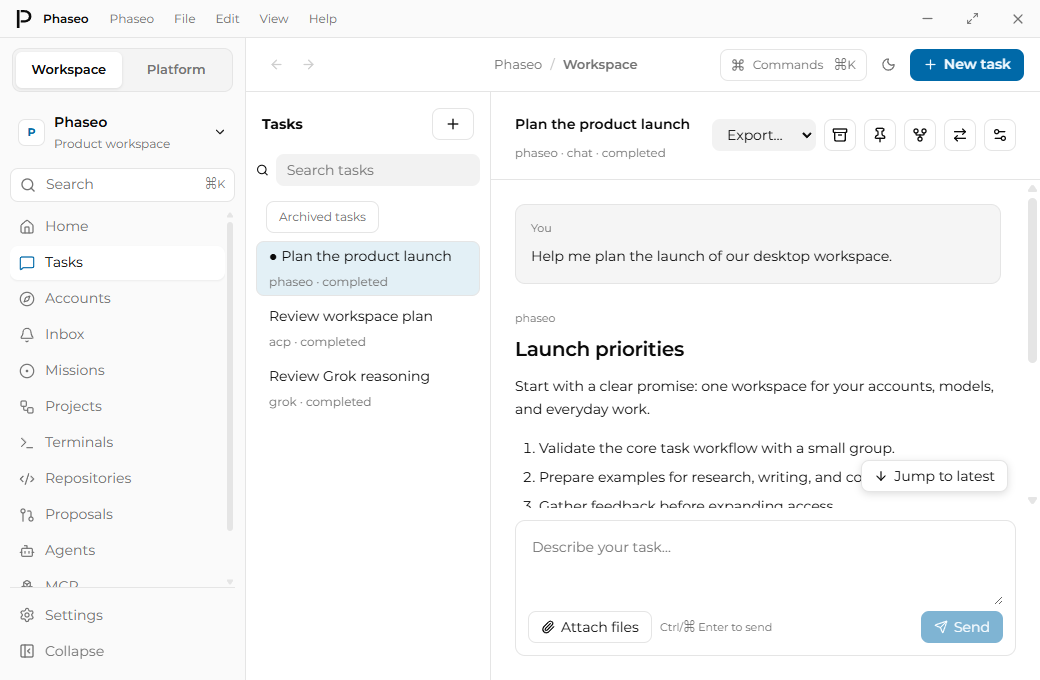
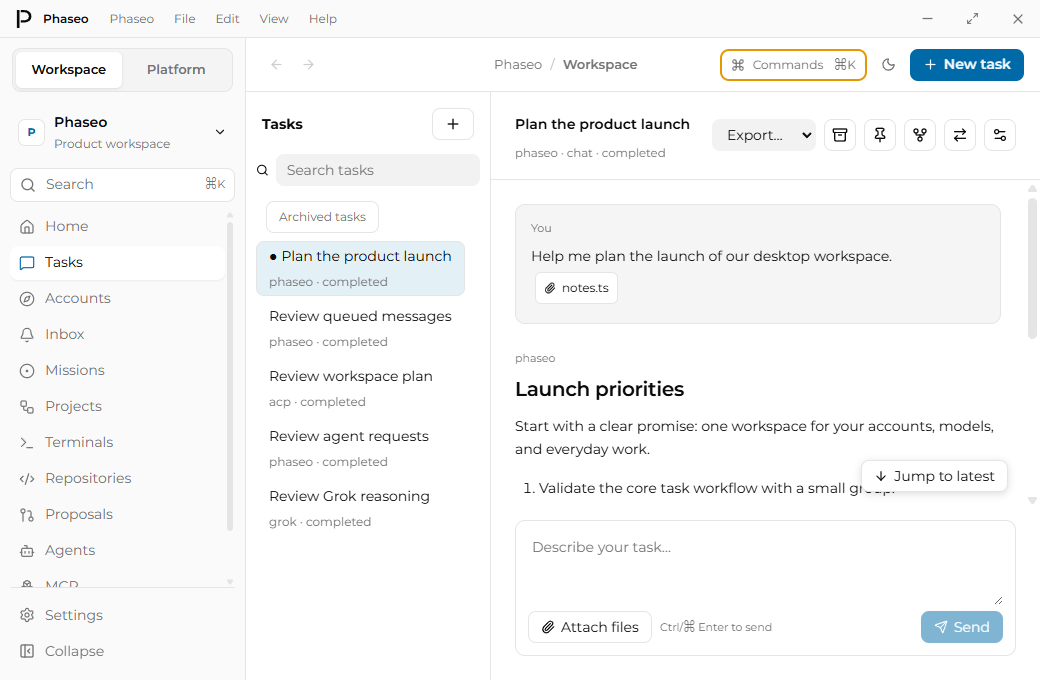
fix(desktop): retain task history navigation controls

diff --git a/apps/desktop/src/renderer/views/TaskWorkspace.tsx b/apps/desktop/src/renderer/views/TaskWorkspace.tsx
@@ -102,11 +102,11 @@ export function TaskWorkspace() {
 			<div className="task-list-heading"><strong>Tasks</strong><button type="button" aria-label="New task" onClick={() => { setSelectedId(undefined); setHandoffId(undefined); }}><Plus size={16} /></button></div>
 			<label className="task-search"><Search size={14} /><input aria-label="Search tasks" placeholder="Search tasks" maxLength={512} value={query} onChange={event => setQuery(event.target.value)} /></label>
 			<button type="button" className="task-archive-filter" onClick={() => { setShowArchived(value => !value); setSelectedId(undefined); }}>{showArchived ? "Active tasks" : "Archived tasks"}</button>
-			{tasks.map(task => <button type="button" className={`task-row ${task.id === selectedId ? "selected" : ""}`} key={task.id} onClick={() => setSelectedId(task.id)}><span>{task.pinned ? "● " : ""}{task.title}</span><small>{task.harness} · {task.status}</small></button>)}
+			<div className="task-history-list">{tasks.map(task => <button type="button" title={task.title} aria-pressed={task.id === selectedId} className={`task-row ${task.id === selectedId ? "selected" : ""}`} key={task.id} onClick={() => setSelectedId(task.id)}><span>{task.pinned ? "● " : ""}{task.title}</span><small>{task.harness} · {task.status}</small></button>)}
 			{history.loading && <p className="task-muted" role="status">Loading tasks…</p>}
 			{history.error && <div className="task-muted" role="alert"><p>{history.error}</p><button type="button" onClick={history.retry}>Retry</button></div>}
 			{!history.loading && !history.error && !tasks.length && <p className="task-muted">{query ? "No matching tasks." : showArchived ? "No archived tasks." : "Your tasks will appear here."}</p>}
-			{history.hasMore && <button type="button" disabled={history.loading} onClick={history.loadMore}>Load more tasks</button>}
+			{history.hasMore && <button type="button" disabled={history.loading} onClick={history.loadMore}>Load more tasks</button>}</div>
 		</aside>
 		<section className="task-detail" aria-label="Task workspace">
 			{error && <div className="task-error" role="alert">{error}</div>}

diff --git a/apps/desktop/src/renderer/styles.css b/apps/desktop/src/renderer/styles.css
@@ -57,7 +57,12 @@
 :where(.page, .task-workspace, .terminal-workspace) :where(input:not([type="checkbox"]):not([type="radio"]), select, textarea) { min-width: 0; min-height: 32px; border: 1px solid transparent; background: color-mix(in oklch, var(--input) 50%, transparent); color: var(--text); border-radius: 8px; padding: 4px 10px; font: inherit; font-size: 14px; transition: border-color 200ms, box-shadow 200ms; }
 :where(.page, .task-workspace, .terminal-workspace) :is(input[type="checkbox"], input[type="radio"]) { width: 16px; height: 16px; margin: 0; accent-color: var(--primary); }
 :where(.page, .task-workspace, .terminal-workspace) :focus-visible { outline: none; border-color: var(--ring); box-shadow: 0 0 0 3px color-mix(in oklch, var(--ring) 30%, transparent); }
-.task-list { width: 245px; flex-shrink: 0; border-right: 1px solid var(--border); padding: 16px 10px; overflow: auto; }
+.task-list { display: flex; flex-direction: column; min-height: 0; width: 245px; flex-shrink: 0; border-right: 1px solid var(--border); padding: 16px 10px; overflow: hidden; }
+.task-list > :not(.task-history-list) { flex-shrink: 0; }
+.task-list > .task-archive-filter { align-self: flex-start; }
+.task-history-list { flex: 1; min-height: 0; overflow-y: auto; scrollbar-gutter: stable; }
+.task-history-list .task-row > span { display: -webkit-box; -webkit-box-orient: vertical; -webkit-line-clamp: 2; white-space: normal; overflow-wrap: anywhere; }
+.task-history-list > .task-muted { padding: 12px 6px; margin: 0; line-height: 1.6; }
 .task-list-heading { display: flex; align-items: center; justify-content: space-between; margin-bottom: 14px; padding: 0 6px; }
 .task-search { display: flex; align-items: center; gap: 7px; margin-bottom: 15px; }
 .task-search input { min-width: 0; width: 100%; }

diff --git a/apps/desktop/WORKSPACE-PLAN.md b/apps/desktop/WORKSPACE-PLAN.md
@@ -278,3 +278,5 @@ Command search now has loading/retry feedback, contained long titles and explici
 Terminal session rows now share task-list styling and selection semantics. Sessions scroll independently of project/new-terminal controls, shared control sizing replaces local overrides, and close/delete controls disable during mutation. A 30-session rendered transcript fixture verifies scrolling, control visibility and usable output space in both themes/window sizes. Real PTY execution retains separate packaged workflow coverage; full terminal management/accessibility parity remains unfinished.
 
 Account usage now uses aligned full-width meters and separate windows/buckets, with explicit blocked/unavailable states and reset times. Unit coverage verifies over-limit display and duration labels; rendered fixtures verify meter values and widths at both window sizes/themes. All 319 desktop tests pass. Actual signed-in quota reads and reset-aware recovery remain unfinished.
+
+Task history now scrolls independently of creation/search/archive controls. Long titles use two lines with a full-title tooltip, and selection exposes pressed state. The owned large-history workflow verifies retained controls and title clamping alongside paging, retries and selected conversation behavior. Full metadata/payload pagination and comprehensive accessibility remain unfinished.

diff --git a/apps/desktop/docs/design-audit.md b/apps/desktop/docs/design-audit.md
@@ -47,6 +47,8 @@ Reviewed against the live Phaseo Models and Chat layouts and the web application
 
 32. **Account usage:** separate usage buckets and windows, align remaining amounts above full-width meters, and retain reset timestamps, blocked-usage messages and explicit unavailable data. Durations use singular/plural labels and over-limit windows stay at 0% remaining. Rendered account-status fixtures verify meter values/width, blocking and unknown states at both window sizes/themes. These are display fixtures; actual signed-in quota retrieval remains unverified.
 
+33. **Task history navigation:** scroll history rows independently of New task, search and archive controls. Long titles use up to two lines and remain available through the full title attribute; selected rows expose pressed state. The large-history workflow verifies independent scrolling, retained controls and title clamping while preserving paging/retry/navigation behavior.
+
 The sidebar now scrolls independently while Settings and Collapse remain accessible. Application menus align to the selected trigger as text sizes change. The desktop uses the web logo rather than an invented mark.
 
 ![Home](screenshots/ai-workspace.png)
